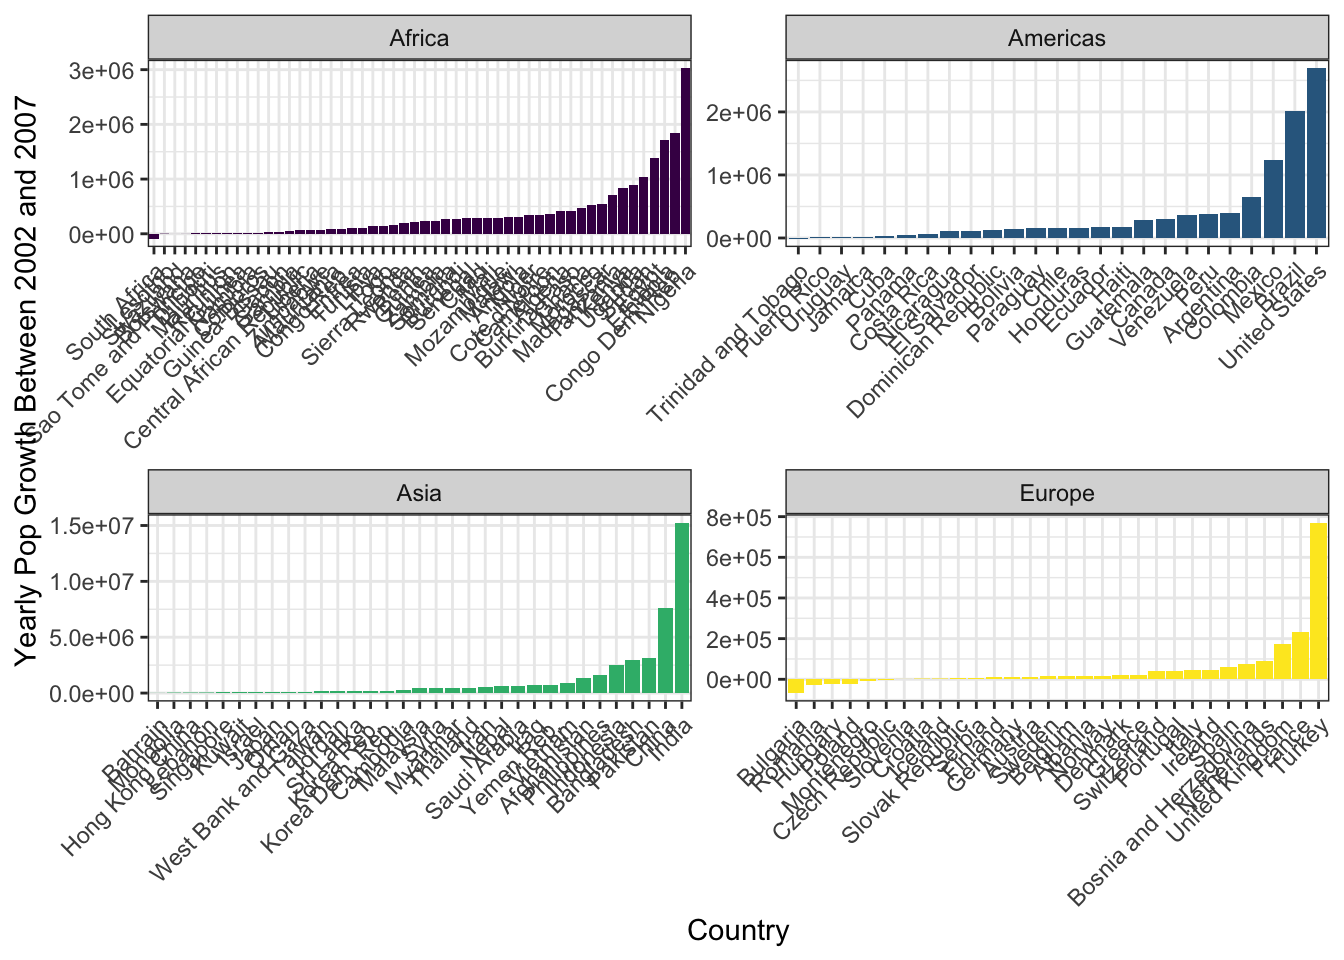
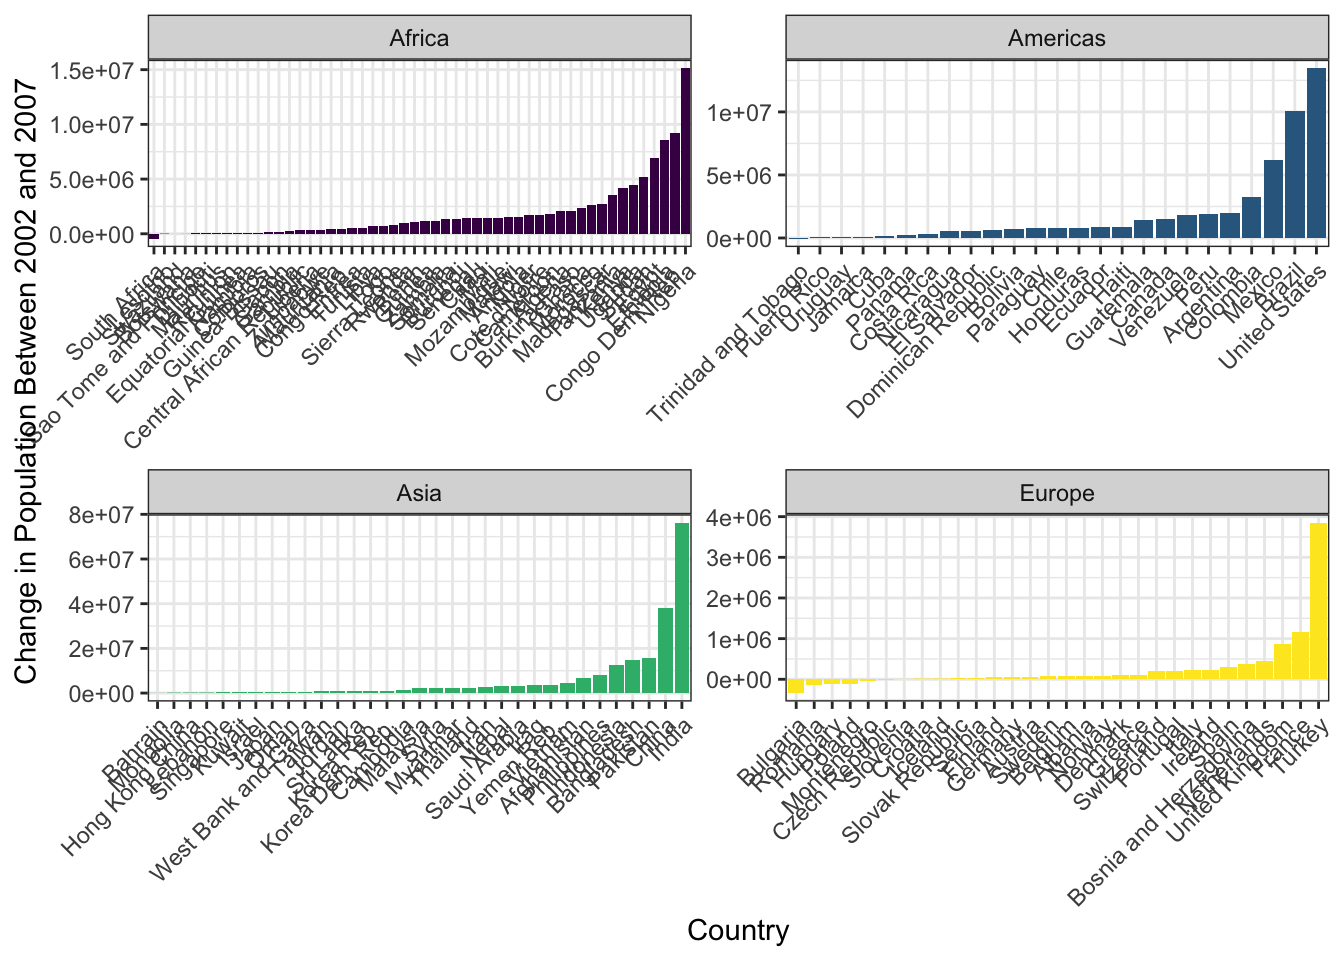
updated lesson

diff --git a/docs/assignments.html b/docs/assignments.html
@@ -840,6 +840,19 @@ gapminder %&gt;%
 <p>For week 7, we’re going to be working on 2 critical <code>ggplot</code> skills: recreating a graph from a dataset and <strong>googling stuff</strong>.</p>
 <p>Our goal will be to make this final graph:</p>
 <p><img src="assignments_files/figure-html/unnamed-chunk-11-1.png" width="672" /></p>
+<p>The x axis labels are all scrunched up because the image is so small on this page, but if you make it and then zoom it bigger in RStudio it looks much better.</p>
+<p>We’ll touch on some intermediate steps here, since it might take quite a few steps to get from start to finish. Here are some things to note:</p>
+<ol style="list-style-type: decimal">
+<li><p>To get the population difference between 2002 and 2007 for each country, it would probably be easiest to have a country in each row and a column for 2002 population and a column for 2007 population.</p></li>
+<li><p>Notice the order of countries within each facet. You’ll have to look up how to order them in this way.</p></li>
+<li><p>Also look at how the axes are different for each facet. Try looking through <code>?facet_wrap</code> to see if you can figure this one out.</p></li>
+<li><p>The color scale is different from the default- feel free to try out other color scales, just don’t use the defaults!</p></li>
+<li><p>The theme here is different from the default in a few ways, again, feel free to play around with other non-default themes.</p></li>
+<li><p>The axis labels are rotated! Here’s a hint: <code>angle = 45, hjust = 1</code>. It’s up to you (and Google) to figure out where this code goes!</p></li>
+<li><p>Is there a legend on this plot?</p></li>
+</ol>
+<p>This lesson should illustrate a key reality of making plots in R, one that applies as much to experts as beginners: 10% of your effort gets the plot 90% right, and 90% of the effort is getting the plot perfect. <code>ggplot</code> is incredibly powerful for exploratory analysis, as you can get a good plot with only a few lines of code. It’s also extremely flexible, allowing you to tweak nearly everything about a plot to get a highly polished final product, but these little tweaks can take a lot of time to figure out!</p>
+<p>So if you spend most of your time on this lesson googling stuff, you’re not alone!</p>
 <details>
 <p><summary><strong>DO NOT OPEN</strong> until you are ready to see the answers</summary></p>
 <pre class="r"><code>library(tidyverse)
@@ -850,21 +863,19 @@ pg &lt;- gapminder %&gt;%
   select(country, year, pop, continent) %&gt;% 
   filter(year &gt; 2000) %&gt;% 
   pivot_wider(names_from = year, values_from = pop) %&gt;% 
-  mutate(pop_growth_0207 = (`2007` - `2002`) / 5)
-
-
+  mutate(pop_change_0207 = `2007` - `2002`)
 
 pg %&gt;% 
-  filter(continent %in% c(&quot;Africa&quot;, &quot;Americas&quot;, &quot;Asia&quot;, &quot;Europe&quot;)) %&gt;% 
-  ggplot(aes(x = reorder(country, pop_growth_0207), y = pop_growth_0207)) +
+  filter(continent != &quot;Oceania&quot;) %&gt;% 
+  ggplot(aes(x = reorder(country, pop_change_0207), y = pop_change_0207)) +
   geom_col(aes(fill = continent)) +
-  facet_wrap(vars(continent), scales = &quot;free&quot;) +
+  facet_wrap(~continent, scales = &quot;free&quot;) +
   theme_bw() +
   scale_fill_viridis_d() +
   theme(axis.text.x = element_text(angle = 45, hjust = 1), 
         legend.position = &quot;none&quot;) +
   xlab(&quot;Country&quot;) +
-  ylab(&quot;Yearly Pop Growth Between 2002 and 2007&quot;)</code></pre>
+  ylab(&quot;Change in Population Between 2002 and 2007&quot;)</code></pre>
 </details>
 </div>
 <div id="week8" class="section level3">
